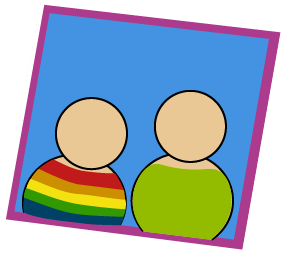
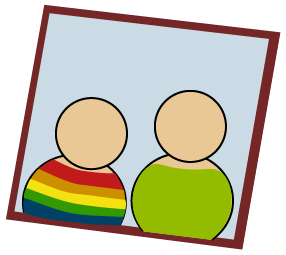
added a dino game

diff --git a/frontend/src/views/Game/Game.jsx b/frontend/src/views/Game/Game.jsx
@@ -1,0 +1,120 @@
+import React, { useEffect, useRef, useState } from 'react';
+import { Link } from 'react-router-dom';
+
+export default function Game() {
+
+    return (
+        <section>
+            <aside>
+                <Link to="/">
+                <button>Back</button>
+                </Link>
+            </aside>
+            <DinoGame />
+        </section>
+    )
+}
+
+function DinoGame() {
+    const canvasRef = useRef(null);
+    const [score, setScore] = useState(0);
+    const [gameOver, setGameOver] = useState(false);
+
+    useEffect(() => {
+        const canvas = canvasRef.current;
+        const ctx = canvas.getContext('2d');
+
+        let animationFrameId;
+        let gameScore = 0;
+        let isJumping = false;
+        let jumpVelocity = 0;
+        const gravity = 0.6;
+        const dino = { x: 50, y: 130, width: 20, height: 30, vy: 0 };
+        const obstacle = { x: 600, y: 130, width: 15, height: 30, speed: 5 };
+
+        const handleKeyDown = (e) => {
+            if ((e.code === 'Space' || e.code === 'ArrowUp') && !isJumping && dino.y === 130) {
+                isJumping = true;
+                dino.vy = -10;
+            }
+            if (e.code === 'KeyR' && gameOver) {
+                setGameOver(false);
+                gameScore = 0;
+                obstacle.x = 600;
+                setScore(0);
+            }
+        };
+
+        window.addEventListener('keydown', handleKeyDown);
+
+        const update = () => {
+
+            dino.vy += gravity;
+            dino.y += dino.vy;
+            if (dino.y > 130) {
+                dino.y = 130;
+                isJumping = false;
+                dino.vy = 0;
+            }
+
+            obstacle.x -= obstacle.speed;
+            if (obstacle.x < -obstacle.width) {
+                obstacle.x = 600;
+                gameScore += 10;
+                setScore(gameScore);
+            }
+
+            if (
+                dino.x < obstacle.x + obstacle.width &&
+                dino.x + dino.width > obstacle.x &&
+                dino.y < obstacle.y + obstacle.height &&
+                dino.y + dino.height > obstacle.y
+            ) {
+                setGameOver(true);
+            }
+        };
+
+        const draw = () => {
+            ctx.clearRect(0, 0, canvas.width, canvas.height);
+
+            ctx.fillStyle = '#555';
+            ctx.fillRect(0, 160, canvas.width, 2);
+
+            ctx.fillStyle = '#333';
+            ctx.fillRect(dino.x, dino.y, dino.width, dino.height);
+
+            ctx.fillStyle = '#d9534f';
+            ctx.fillRect(obstacle.x, obstacle.y, obstacle.width, obstacle.height);
+        };
+
+        const loop = () => {
+            if (!gameOver) {
+                update();
+                draw();
+                animationFrameId = requestAnimationFrame(loop);
+            }
+        };
+
+        animationFrameId = requestAnimationFrame(loop);
+
+        return () => {
+            window.removeEventListener('keydown', handleKeyDown);
+            cancelAnimationFrame(animationFrameId);
+        };
+    }, [gameOver]);
+
+    return (
+        <div style={{ textAlign: 'center', fontFamily: 'sans-serif' }}>
+            <h2>React Dino Game</h2>
+            <p>Press <strong>Spacebar</strong> or <strong>Up Arrow</strong> to jump.</p>
+            <h3>Score: {score}</h3>
+            <canvas
+                ref={canvasRef}
+                width={600}
+                height={200}
+                style={{ border: '2px solid #333', background: '#f7f7f7' }}
+            />
+            {gameOver && <p style={{ color: 'red', fontWeight: 'bold' }}>Game Over! Press 'R' to restart.</p>}
+        </div>
+    );
+}

diff --git a/frontend/src/App.jsx b/frontend/src/App.jsx
@@ -10,6 +10,7 @@ import './App.css'
 import { Home } from './views/Home/Home';
 import { AboutMe } from './views/AboutMe/AboutMe';
 import { Books } from './views/Books/Books';
+import Game from './views/Game/Game';
 
 function App() {
   const [count, setCount] = useState(0)
@@ -22,6 +23,7 @@ function App() {
           <Route path='/Projects' element={<Projects />} />
           <Route path='/Books' element={<Books/>}/>
           <Route path='/AboutMe' element={<AboutMe/>}/>
+          <Route path='/Game' element= {<Game/>}/>
         </Routes>
       </BrowserRouter>
 

diff --git a/frontend/src/views/Home/Home.jsx b/frontend/src/views/Home/Home.jsx
@@ -21,7 +21,7 @@ export function Home() {
                     <Link to={'Projects'}>
                         <img src={computer} alt="" className={styles.ComputerImg} />
                     </Link>
-                    <Link>
+                    <Link to={'Game'}>
                         <img src={game} alt="" className={styles.GameImg} />
                     </Link>
                 </div>

diff --git a/frontend/src/views/Home/Home.module.css b/frontend/src/views/Home/Home.module.css
@@ -4,6 +4,7 @@ main {
     height: 100vh;
     display: flex;
     align-items: flex-end;
+    background-color: #282726ba ;
 
 }
 
